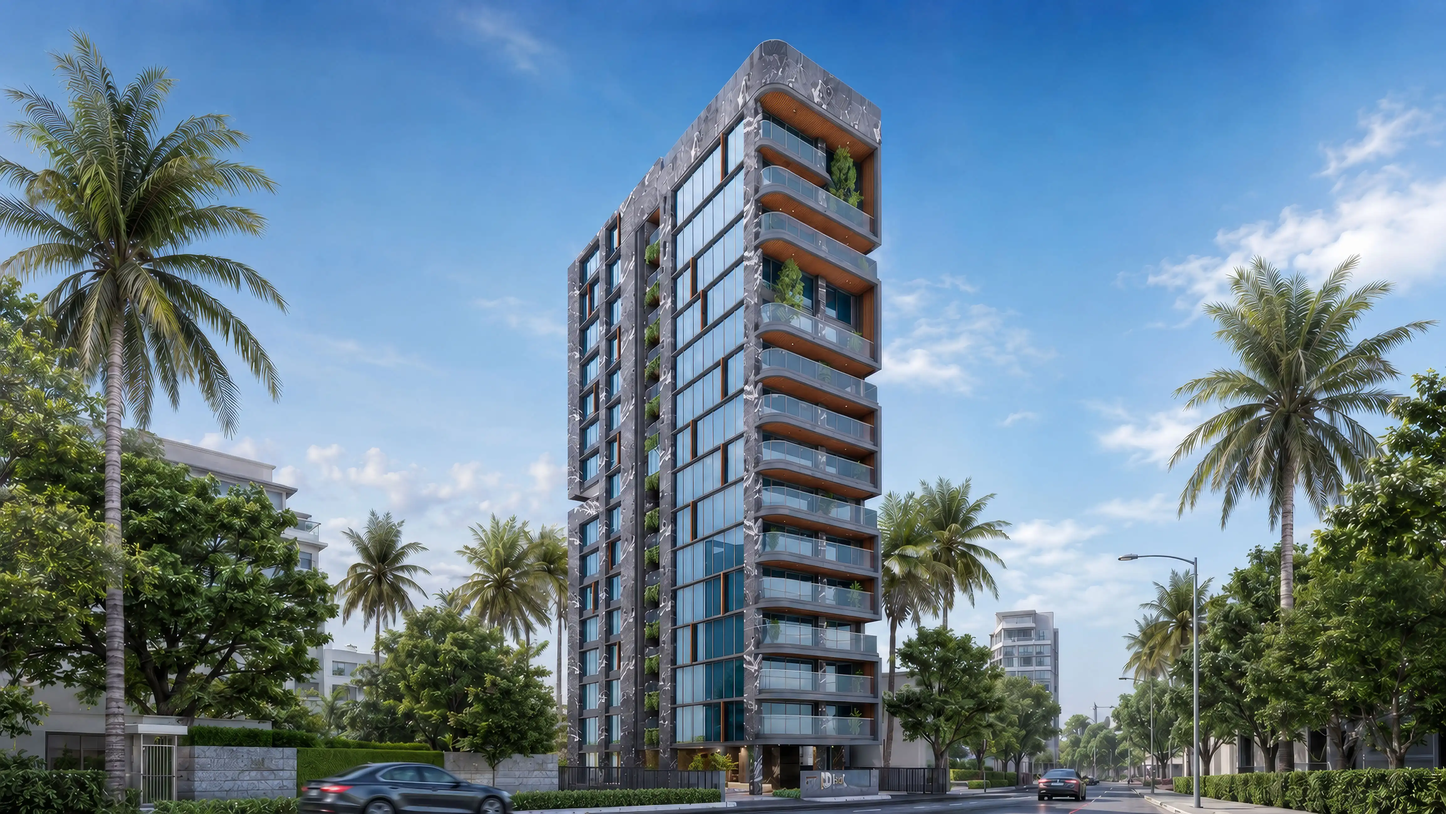
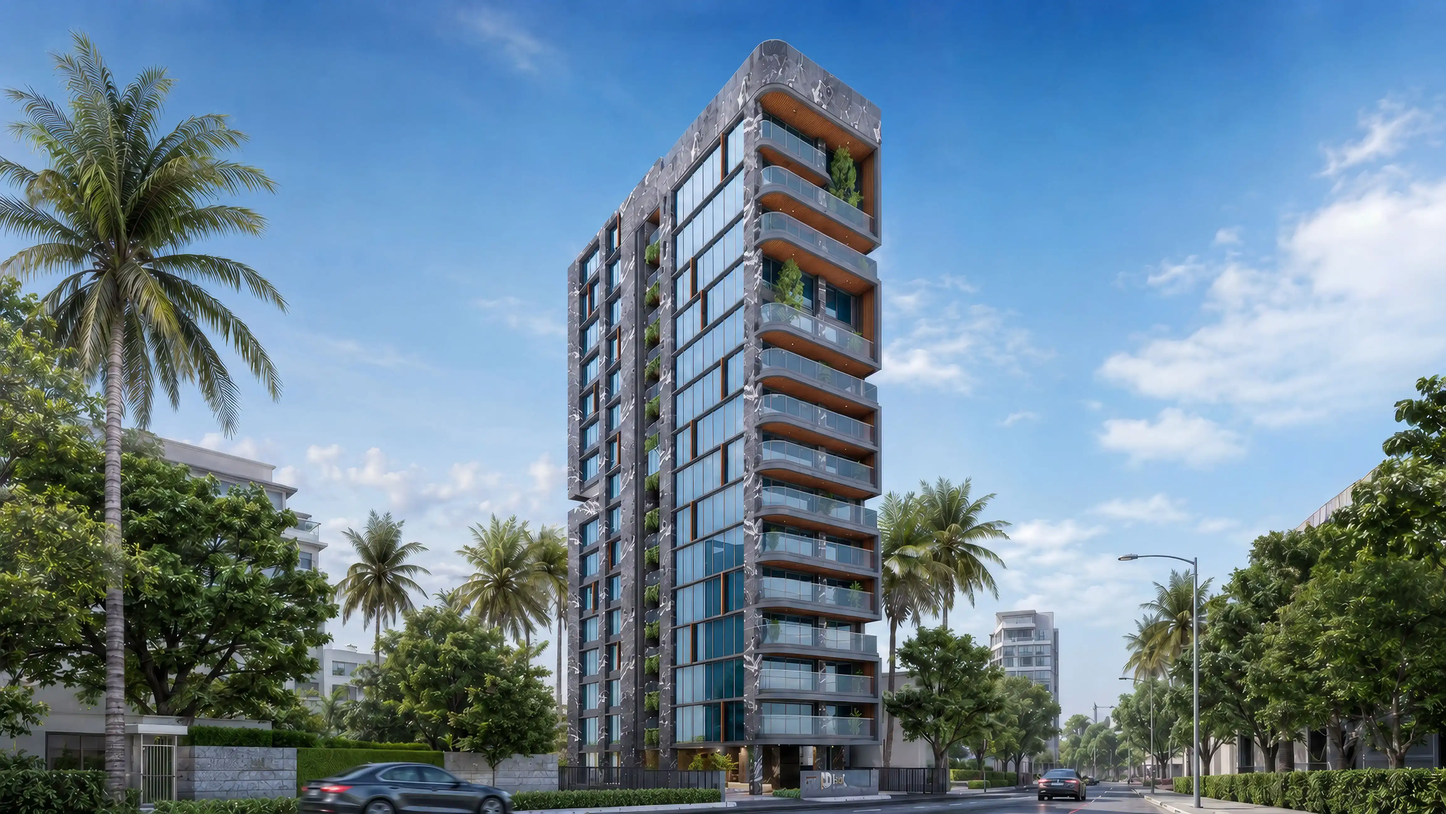
dc updated

Changed region(s): [[0.7489, 0.2495, 1.0, 0.7486]]

diff --git a/src/components/Building/buildingViewsData.js b/src/components/Building/buildingViewsData.js
@@ -42,7 +42,7 @@ export const BUILDING_VIEWS = {
     amenityItemClass:
       "lg:text-[10px] xl:text-[12px] 2xl:text-[15.2px] 3xl:text-[18px] 4xl:text-[25px]",
    amenityClass:
-      "w-[calc(100%-2.5rem)] max-w-xl sm:max-w-2xl lg:max-w-3xl lg:top-60 lg:-right-40 2xl:-right-17 2xl:top-95 3xl:top-110 3xl:right-12 4xl:top-155 4xl:right-43 xl:-right-28 xl:top-73",
+      "w-[calc(100%-2.5rem)] max-w-xl sm:max-w-2xl lg:max-w-3xl lg:top-60 lg:-right-40 2xl:-right-17 2xl:top-95 3xl:top-110 3xl:right-10 4xl:top-155 4xl:right-43 xl:-right-28 xl:top-73",
 
       asideClass:
       "left-80 top-26 2xl:left-95 2xl:top-65 xl:left-73 xl:top-54 lg:left-53 lg:top-36 3xl:left-120 3xl:top-[35%] 4xl:left-[27%] 4xl:top-[37%] ",
